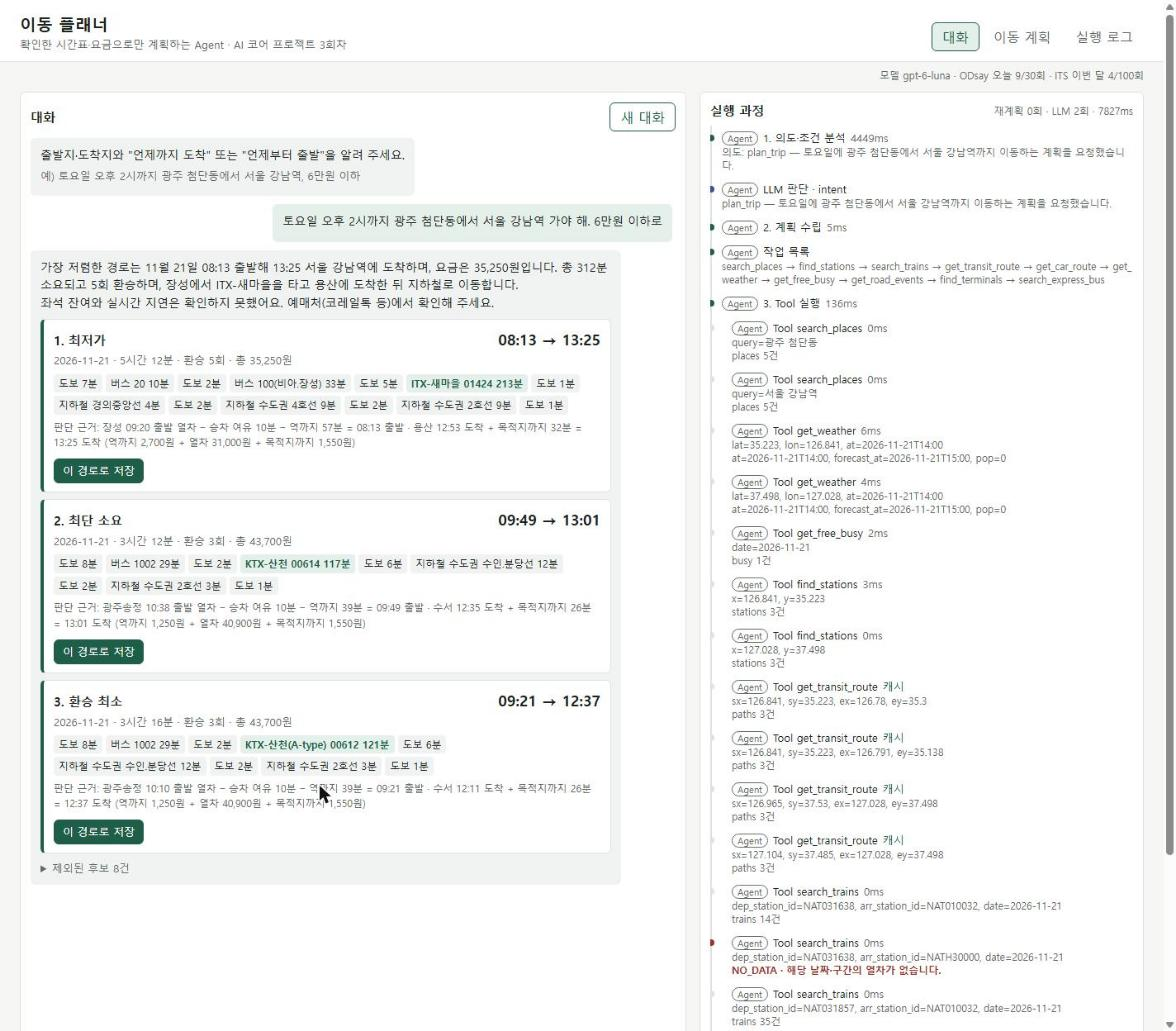
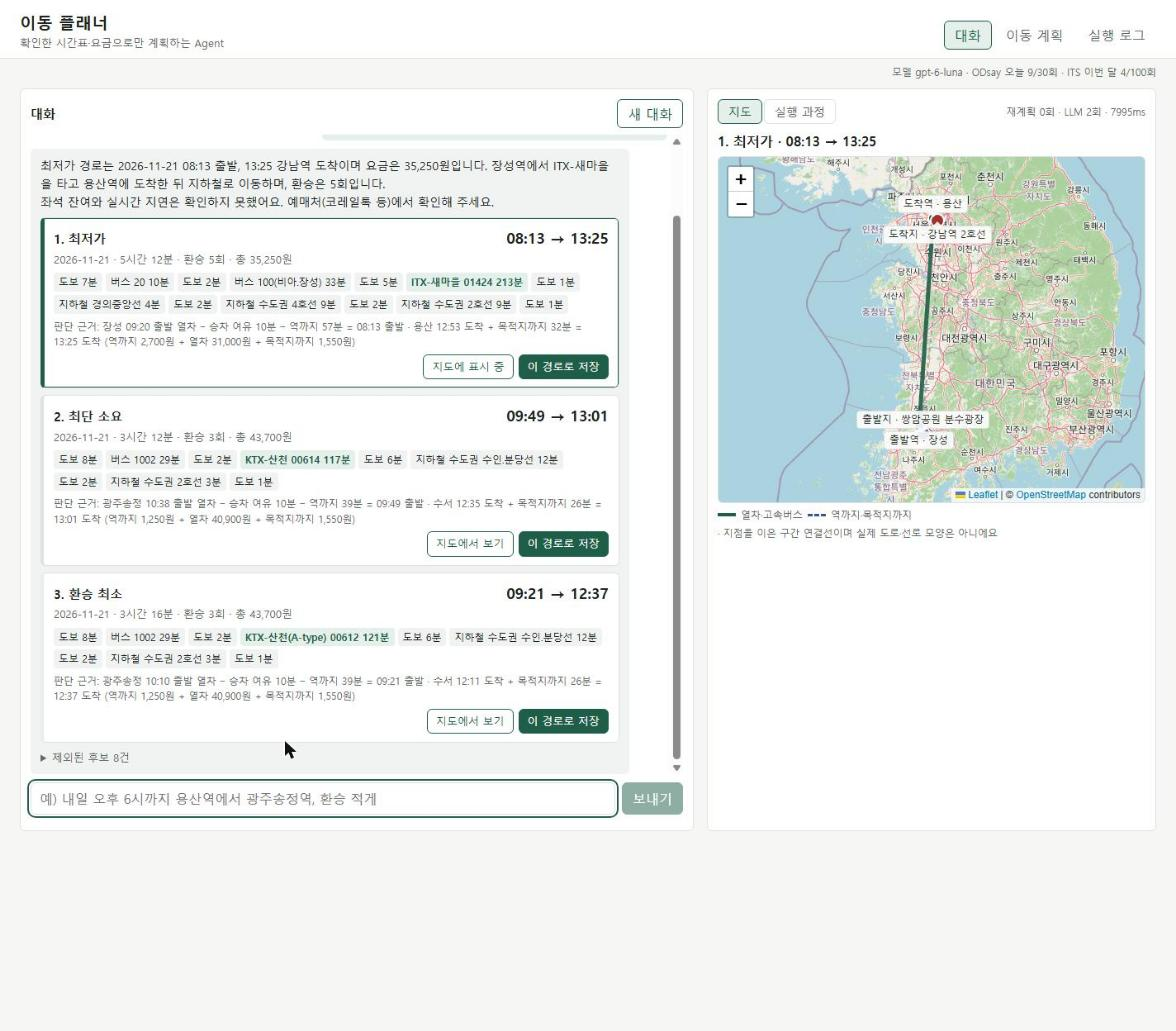
docs: Vue 화면 고도화 후 캡처·데모 GIF 다시 촬영(계획 상세 추가)

diff --git a/docs/셀프체크리스트.md b/docs/셀프체크리스트.md
@@ -142,4 +142,4 @@
 ## 6. 남은 일
 - 3일차 오후 공식 셀프 체크리스트 배포 → 이 문서를 그 항목으로 다시 점검.
 - 2·3일차 작업은 그날 커밋.
-- 화면 스크린샷·데모 GIF는 리뷰 수정 반영 후(2026-11-18 15:08) 다시 촬영함. 개인 일정이 찍히지 않도록 캡처 때만 로컬 캘린더 사용. GitLab README에서 이미지 4개 모두 표시 확인.
+- 화면 스크린샷·데모 GIF는 Vue 화면 고도화 후(2026-11-18 16:16) 다시 촬영함(계획 상세 캡처 추가). 개인 일정이 찍히지 않도록 캡처 때만 로컬 캘린더 사용. GitLab README에서 이미지 4개 모두 표시 확인.

diff --git a/README.md b/README.md
@@ -6,9 +6,9 @@
 
 ![데모](docs/screenshots/demo.gif)
 
-| 대화 + 실행 과정 | 이동 계획 | 실행 로그·이상 징후 |
-|---|---|---|
-| ![대화](docs/screenshots/chat.jpg) | ![계획](docs/screenshots/plans.jpg) | ![로그](docs/screenshots/logs_anomaly.jpg) |
+| 대화 + 경로 지도 | 계획 상세(지도·구간) | 이동 계획 목록 | 실행 로그·이상 징후 |
+|---|---|---|---|
+| ![대화](docs/screenshots/chat.jpg) | ![계획 상세](docs/screenshots/plan_detail.jpg) | ![계획](docs/screenshots/plans.jpg) | ![로그](docs/screenshots/logs_anomaly.jpg) |
 
 ## 1. 실행 방법
 
